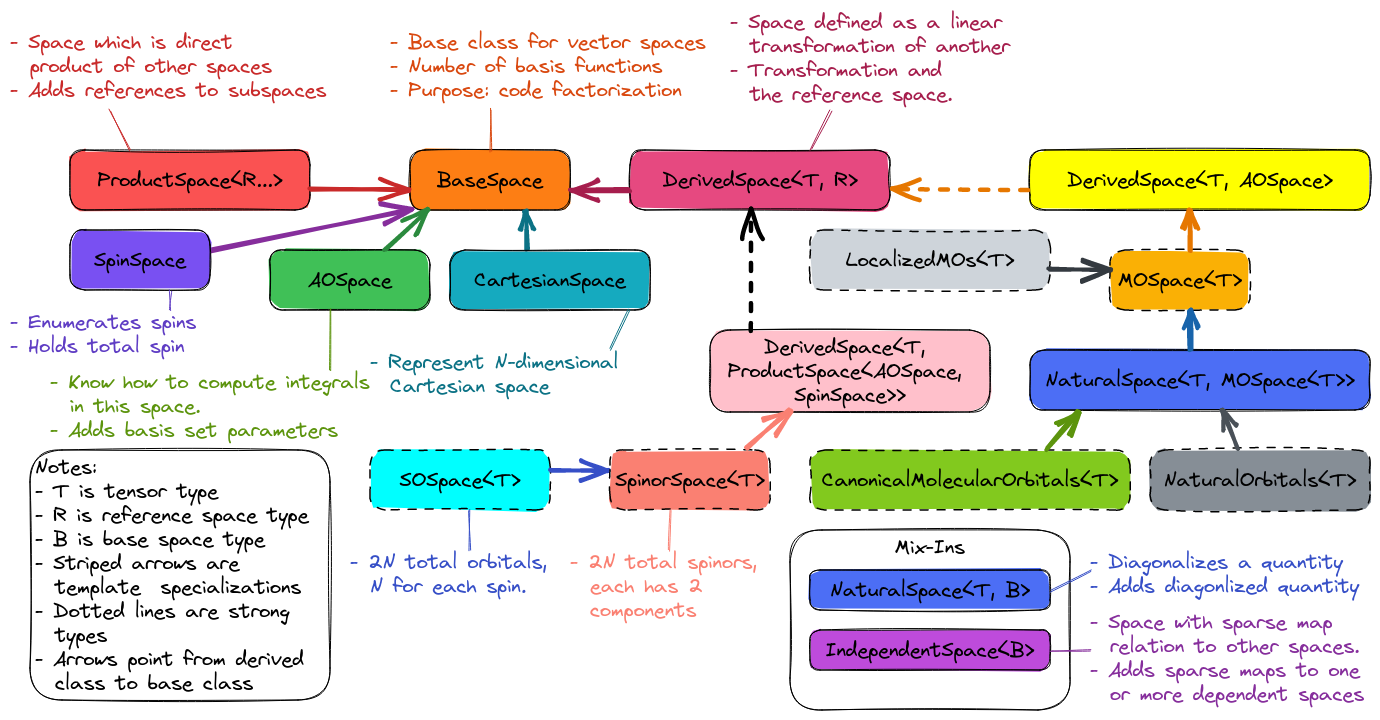
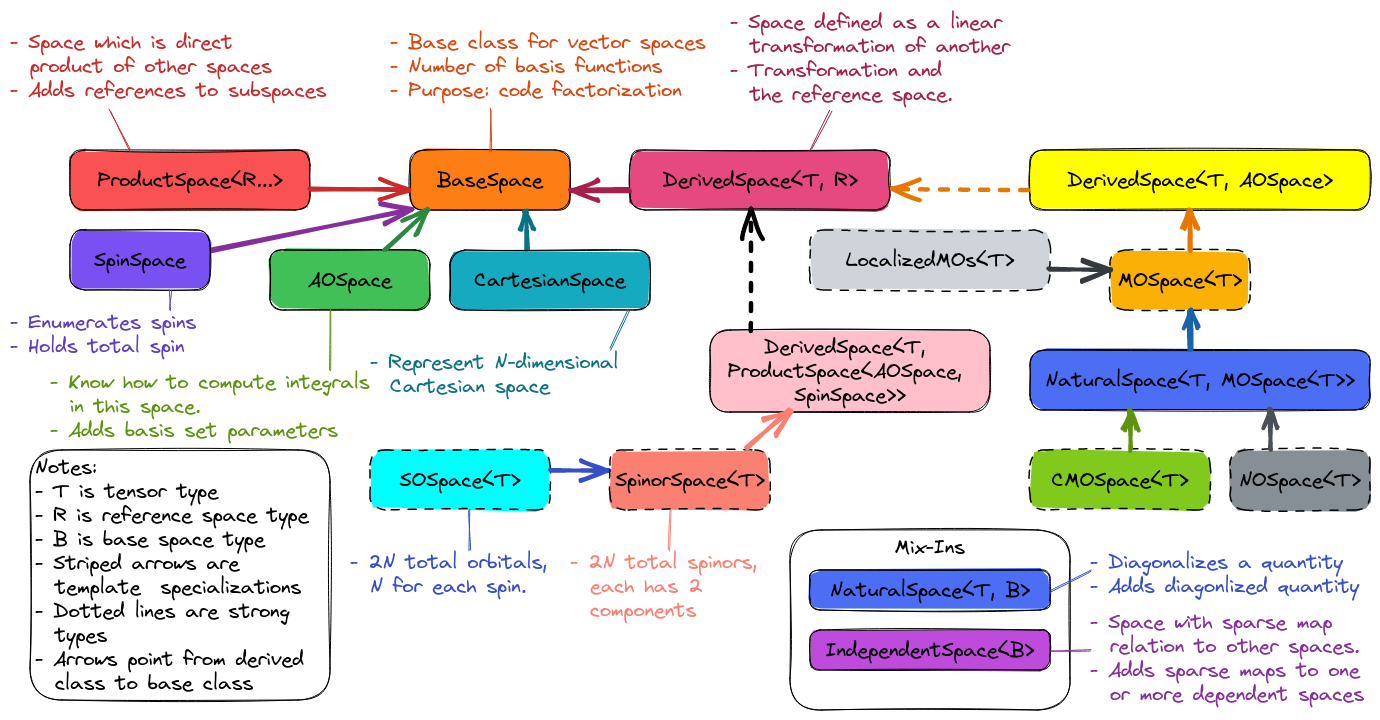
finishes off vector space design

Changed region(s): [[0.5609, 0.5806, 0.9971, 0.7333]]

diff --git a/docs/source/developer/design/vector_spaces.rst b/docs/source/developer/design/vector_spaces.rst
@@ -217,6 +217,12 @@ of the ``AOSpace`` (*e.g.*, the algorithm for transforming a tensor from the
 AO basis set). These algorithms do not care if the transformation is to
 canonical MOs, to localized MOs, or to something else.
 
+Localized MOs
+=============
+
+``LocalizedMOs<T>`` is a strong type used to denote that the MOs have been
+spatially localized according to some metric.
+
 Product Space
 =============
 
@@ -232,34 +238,111 @@ Spinor Space
 
 .. |alpha| replace:: :math:`\alpha`
 .. |beta| replace:: :math:`\beta`
+.. |2N| replace:: :math:`2N`
 
 The ``SpinorSpace<T>`` class is a strong type of a derived space whose
 reference state is the space of atomic spin orbitals (product of an AO and a
-spin function). For |N| AOs this means we have 2|N| atomic spin orbitals,
-which get transformed into 2|N| new orbitals. In turn we have a 2|N| by 2|N|
+spin function). For |N| AOs this means we have |2N| atomic spin orbitals,
+which get transformed into |2N| new orbitals. In turn we have a |2N| by |2N|
 transformation matrix.
 
 Spin Orbitals (SOs)
 ===================
 
-Conceptually similar to the ``SpinorSpace<T>``, the ``SOSpace<T>`` except that
-the resulting orbitals restrict the transformation so that the |alpha| AOs are
-only mixed with other |alpha| AOs and the |beta| AOs are only mixed with
-other |beta| AOs`. In turn, each of the resulting 2|N| spin orbitals is
-defined in terms of |N| coefficients and our transformation is |N| by 2|N|,
-not 2|N| by 2|N|.
+Conceptually similar to the ``SpinorSpace<T>``, the ``SOSpace<T>`` differs in
+that it excepts the resulting orbital transformation to be restricted so that
+the |alpha| AOs are only mixed with other |alpha| AOs and the |beta| AOs are
+only mixed with other |beta| AOs`. In turn, each of the resulting |2N| spin
+orbitals are defined in terms of |N| coefficients and our transformation is
+|N| by |2N|, not |2N| by |2N| like in the spinor case.
 
 Natural Space
 =============
 
-TODO: Write me!
+There are a number of orbital spaces where the transformation is defined by
+requiring the resulting orbitals to diagonalize a particular tensor. In these
+cases the resulting orbitals are often said to be the "natural" basis set on
+account of the fact that they simplify equations involving the diagonalized
+quantity. Compared to a ``DerivedSpace<T, R>`` object, the additional state
+contained in a ``NaturalSpace<T, B>`` is the diagonalized tensor (which is
+assumed to be stored in a tensor of type ``T``). Rather than deriving directly
+from ``DerivedSpace<T,R>`` we allow the user to specify the base class to
+derive from (this allows one to derive a natural space from an ``MOSpace<T>``
+or an ``SOSpace<T>``, for example). The need for this space stems from
+:ref:`vsd_properties`.
+
 
 Canonical Molecular Orbitals (CMOs)
 ===================================
 
-TODO: Write me!
+In conventional electronic structure theory, the CMOs, *i.e.*,  the orbitals
+which diagonalize the Fock matrix, are one of the most important natural
+spaces on account of the fact that they simplify the derivation of
+correlated methods (although they notably do not simplify the computational
+cost of such methods). The ``CMOSpace<T>`` class is a strong type to denote
+that the additional tensor contained in the base
+``NaturalSpace<T, MOSpace<T>>`` contains the orbital eigenvalues and that the
+orbitals diagonalize the Fock matrix.
 
 Natural Orbitals
 ================
 
-TODO: Write me!
+Natural orbitals diagonalize the one-electron density matrix and the
+``NOSpace<T>`` class was designed to represent that the tensor contained in
+the base ``NaturalSpace<T, MOSpace<T>>`` class contains the orbital occupation
+values.
+
+Independent Spaces
+==================
+
+In theories exploiting (usually spatial) sparsity, members of one basis
+set usually only have non-zero tensor elements with some of the members of
+another basis set. This defines a "sparse map" where each member of the first
+basis set is associated with a "domain" of the second set. The first set
+is termed the "independent space" and the second basis set is termed the
+"dependent space". The ``IndependentSpace<B>`` class serves as
+code-factorization for implementing vector spaces for which we have sparse
+maps. Relative to the base class ``B`` it inherits from,
+``IndependentSpace<B>`` includes a sparse map.
+
+********************
+Vector Space Summary
+********************
+
+Over the years, electronic structure theorists have used a lot of basis sets.
+Each basis set has different properties, which in turn can influence the
+approximations and assumptions algorithms consuming the basis sets can make.
+The vector space component was introduced to represent those basis set in the
+simplest manner possible. The vector space component was designed adhering to
+the considerations listed in :ref:`vsd_considerations`. The responsiveness of
+our design to those considerations is summarized below.
+
+:ref:`vsd_basis_set`
+   The design includes a number of non-orbital vector spaces and the
+   ``BaseSpace`` class does not assume that classes which derives from it
+   actually contain orbitals.
+
+:ref:`vsd_parameters`
+   The class hierarchy derives a new class anytime the definition of the
+   basis set depends on a new set of parameters.
+
+:ref:`vsd_properties`
+   Classes representing generic (and specific) basis set properties are found
+   throughout the hierarchy. Functions are encouraged to use the lowest level
+   (*i.e.*, closest to ``BaseSpace``) necessary in order to implement their
+   algorithm.
+
+:ref:`vsd_type_dispatch`
+   Ultimately similar to :ref:`vsd_properties`, by establishing a series of
+   strong types throughout the hierarchy it is possible to distinguish between,
+   say canonical molecular orbitals and natural orbitals by type alone. In
+   turn, if a module, for example, wants to assume it has been provided CMOs,
+   it can do so by relying on C++'s type system.
+
+*********************
+Future Considerations
+*********************
+
+- The ``IndependentSpace<B>`` class is envisioned as being used by a whole
+  host of additional spaces. The design should be fleshed out to accommodate
+  those spaces when the time comes.
